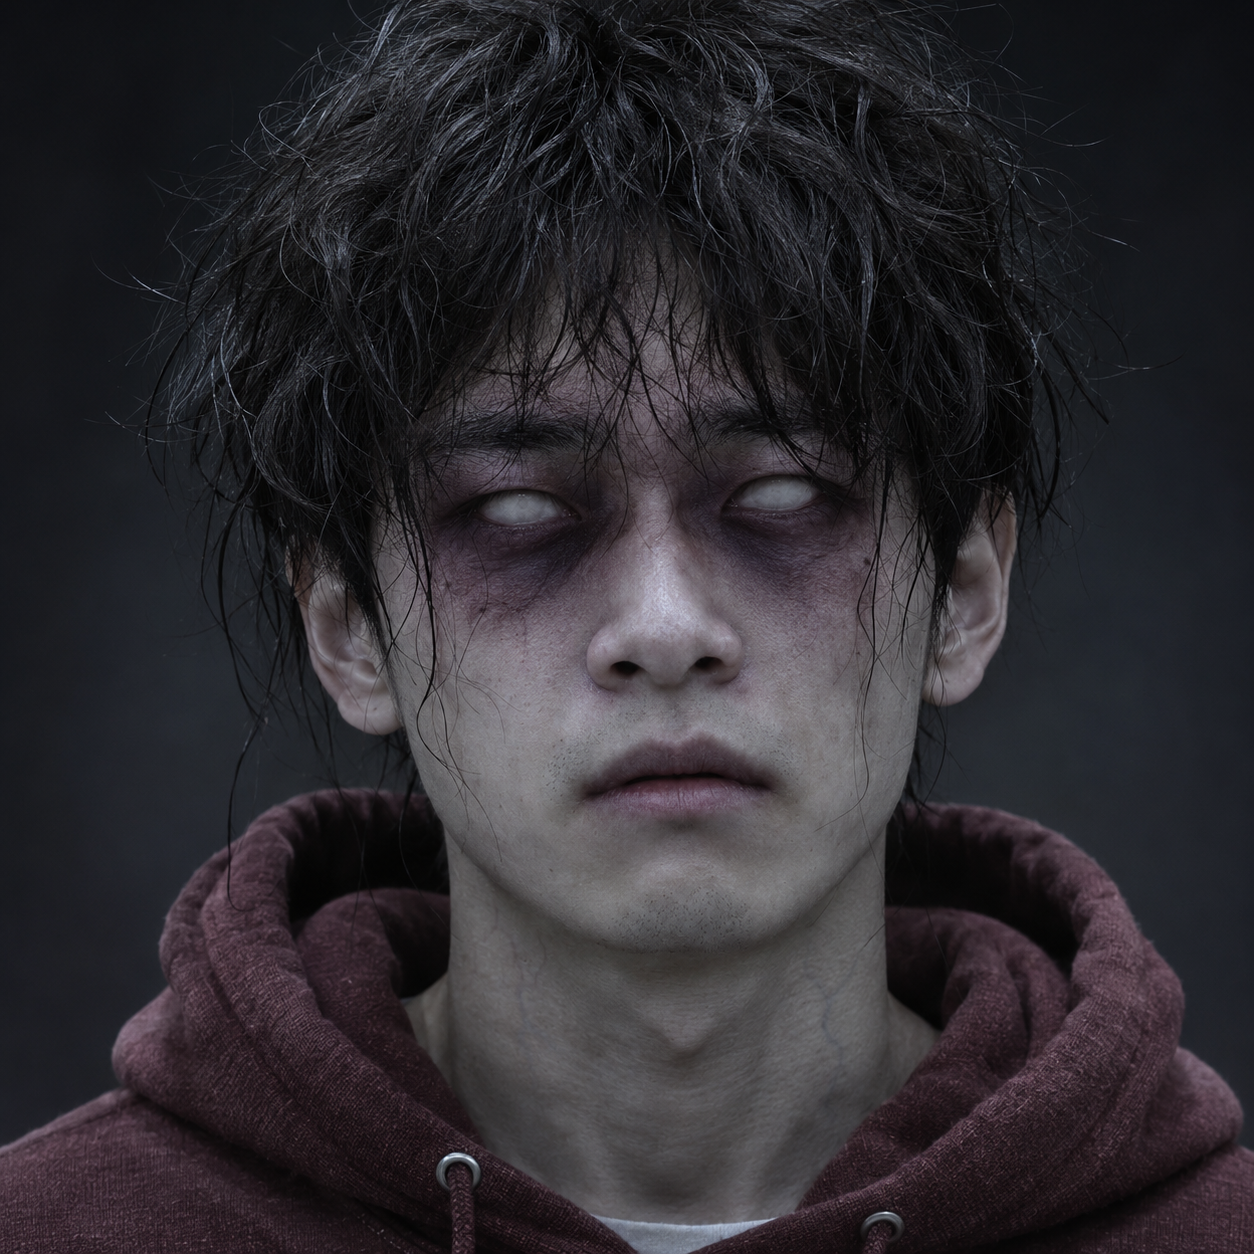
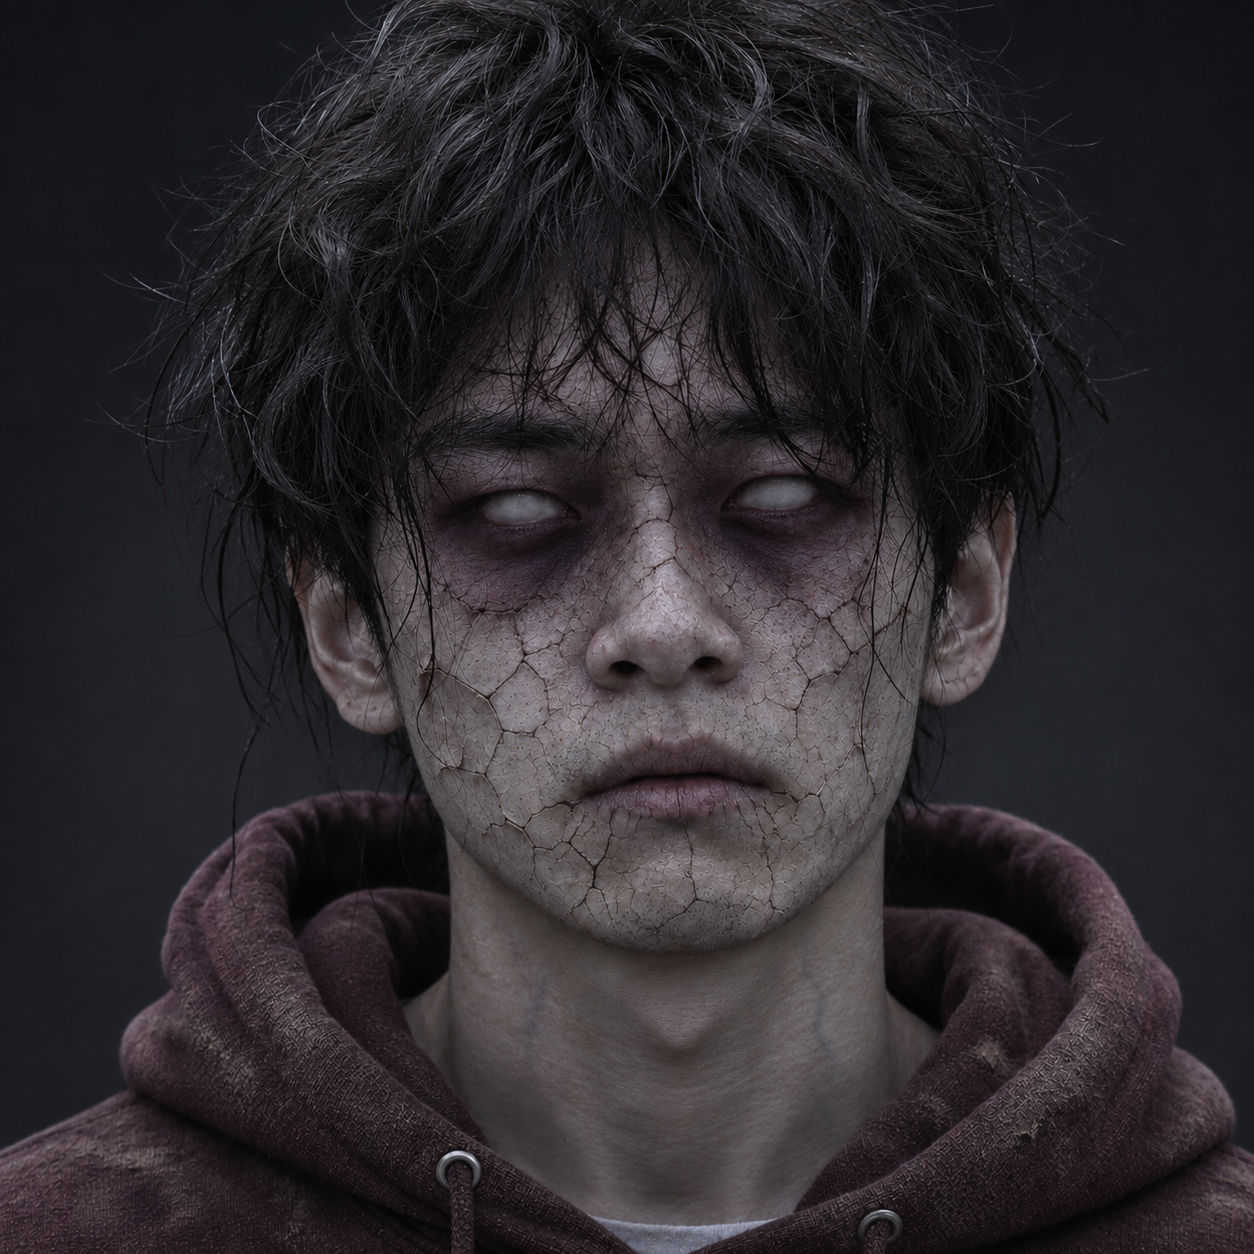
規格／影片素材：等號者三人幽靈頭像補上臉部裂紋定稿
左 01、中 02、右 04：裂紋走向與全身定稿一致，衣領加灰塵；10-23 頭像基準描述同步。

diff --git a/docs/10_製作規格/10-23_製作規格_影片素材設定.md b/docs/10_製作規格/10-23_製作規格_影片素材設定.md
@@ -143,7 +143,7 @@
 - **素材提示詞：**大廳塑膠等候椅上的三個年輕人（兩女一男，約十九到二十六歲），高矮胖瘦各不相同，穿的是自己平常的便服，像日常途中突然被帶進園區：左邊的女生是灰色針織開襟衫、白 T、淺色寬牛仔褲；中間的男生是暗紅帽 T、側邊白條紋的灰運動褲；右邊的女生是深藍大學 T、黑色寬褲。衣服乾淨但有一天下來的皺褶，色調低飽和。每人手裡都有一張塑膠號牌。第一人坐得最直；第二人縮肩、抿著嘴，嘴角被迫往兩側提起；第三人望著封住的出口，一手把號牌壓在膝上、一手扣住椅緣。異變只在頸部：衣領裡有一道細長的折角，頸影比肩膀多折一節，慢半拍才接回頭影。臉都沒有清楚五官（低垂、背光或模糊）。
 - **不要出現：**腐爛、傷口或血跡；三人長得一樣或穿同一套衣服；制服、戲服或破舊二手衣
 - **內部視覺基準：**[三人合照](../../assets/07_視聽與介面/assets/角色設定_等號者_合照_v1.png)是三人並坐、號牌與姿態的基準；左、中、右三人各有[左正面頭像](../../assets/07_視聽與介面/assets/角色設定_等號者_左_頭像_v1.png)與[左正面全身](../../assets/07_視聽與介面/assets/角色設定_等號者_左_全身_v1.png)、[中正面頭像](../../assets/07_視聽與介面/assets/角色設定_等號者_中_頭像_v1.png)與[中正面全身](../../assets/07_視聽與介面/assets/角色設定_等號者_中_全身_v1.png)、[右正面頭像](../../assets/07_視聽與介面/assets/角色設定_等號者_右_頭像_v1.png)與[右正面全身](../../assets/07_視聽與介面/assets/角色設定_等號者_右_全身_v1.png)，作為臉部與服裝基準。七張都是未異變的正常人形，只供內部對臉與定裝，不進遊戲畫面；遊戲內仍照本段不交清楚五官，頸部異變另依來源段製作。
-- **幽靈版內部視覺基準：**[左幽靈全身](../../assets/07_視聽與介面/assets/角色設定_等號者_左_幽靈_v1.png)與[左幽靈頭像](../../assets/07_視聽與介面/assets/角色設定_等號者_左_幽靈頭像_v1.png)、[中幽靈全身](../../assets/07_視聽與介面/assets/角色設定_等號者_中_幽靈_v1.png)與[中幽靈頭像](../../assets/07_視聽與介面/assets/角色設定_等號者_中_幽靈頭像_v1.png)、[右幽靈全身](../../assets/07_視聽與介面/assets/角色設定_等號者_右_幽靈_v1.png)與[右幽靈頭像](../../assets/07_視聽與介面/assets/角色設定_等號者_右_幽靈頭像_v1.png)以三人正面全身定裝為底，人、衣著與 28／27／25 號牌不變；全身是怨靈外觀的姿態、衣著髒汙與臉部碎裂基準，頭像是白眼、眼眶與皮膚質地的臉部細節基準（頭像沒有裂紋，裂紋以全身為準）。膚色灰白偏青、衣色褪淡；臉上沒有表情，只剩空洞的死盯；雙眼全白、沒有瞳孔也不發光，眼眶周圍大片發黑、凹陷，黑紫色一路暈到顴骨與眉骨；黑色血管只在太陽穴、脖子與手背淡淡浮現，不搶眼；頭髮凌亂打結、微濕，碎髮散在額頭和臉頰上。臉上有乾裂的黑色細紋，像摔裂的陶瓷娃娃，裂縫是乾的、不流血：左邊的女生一道裂縫從髮際穿過眼眶劈到下巴，中間的男生整張臉布滿細密龜裂，右邊的女生從兩邊眼眶往外放射出網狀裂紋。衣服沾滿泥巴、灰塵和水漬，袖口、褲腳、膝蓋與鞋子最髒，像在水泥地上躺了很久。三人都一動也不動，像被看不見的東西吊著：左邊的女生踮著腳尖懸在地面上方，雙手垂直貼著身側，28 號牌別在毛衣胸前；中間的男生直挺挺站著，雙臂垂下，27 號牌捏在指間垂著；右邊的女生直挺挺站著，雙臂垂下，25 號牌捏在指間垂著。單次成像，沒有殘影、半透明或重影；脖子保持正常，不扭曲、不拉長，衣領內頸影慢半拍只在動畫演出中呈現。仍不出現腐爛、傷口或血跡。
+- **幽靈版內部視覺基準：**[左幽靈全身](../../assets/07_視聽與介面/assets/角色設定_等號者_左_幽靈_v1.png)與[左幽靈頭像](../../assets/07_視聽與介面/assets/角色設定_等號者_左_幽靈頭像_v1.png)、[中幽靈全身](../../assets/07_視聽與介面/assets/角色設定_等號者_中_幽靈_v1.png)與[中幽靈頭像](../../assets/07_視聽與介面/assets/角色設定_等號者_中_幽靈頭像_v1.png)、[右幽靈全身](../../assets/07_視聽與介面/assets/角色設定_等號者_右_幽靈_v1.png)與[右幽靈頭像](../../assets/07_視聽與介面/assets/角色設定_等號者_右_幽靈頭像_v1.png)以三人正面全身定裝為底，人、衣著與 28／27／25 號牌不變；全身是怨靈外觀的姿態、衣著髒汙與臉部碎裂基準，頭像是白眼、眼眶、裂紋與皮膚質地的臉部細節基準，裂紋走向與全身一致。膚色灰白偏青、衣色褪淡；臉上沒有表情，只剩空洞的死盯；雙眼全白、沒有瞳孔也不發光，眼眶周圍大片發黑、凹陷，黑紫色一路暈到顴骨與眉骨；黑色血管只在太陽穴、脖子與手背淡淡浮現，不搶眼；頭髮凌亂打結、微濕，碎髮散在額頭和臉頰上。臉上有乾裂的黑色細紋，像摔裂的陶瓷娃娃，裂縫是乾的、不流血：左邊的女生一道裂縫從髮際穿過眼眶劈到下巴，中間的男生整張臉布滿細密龜裂，右邊的女生從兩邊眼眶往外放射出網狀裂紋。衣服沾滿泥巴、灰塵和水漬，袖口、褲腳、膝蓋與鞋子最髒，像在水泥地上躺了很久。三人都一動也不動，像被看不見的東西吊著：左邊的女生踮著腳尖懸在地面上方，雙手垂直貼著身側，28 號牌別在毛衣胸前；中間的男生直挺挺站著，雙臂垂下，27 號牌捏在指間垂著；右邊的女生直挺挺站著，雙臂垂下，25 號牌捏在指間垂著。單次成像，沒有殘影、半透明或重影；脖子保持正常，不扭曲、不拉長，衣領內頸影慢半拍只在動畫演出中呈現。仍不出現腐爛、傷口或血跡。
 - **來源：**[昆蟲化分配：E-01 等號者](../09_劇本/09-15_正式劇本_共用附錄.md#h-0412-140)
 
 <a id="va-receptionist"></a>
